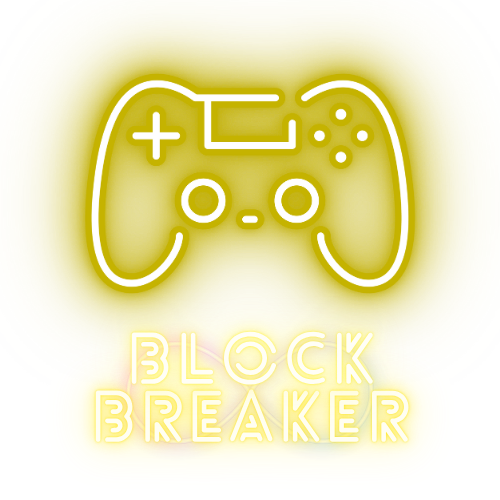
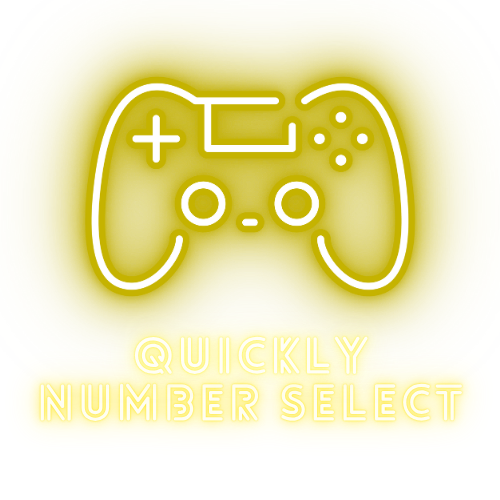
メインメニュー更新

Changed region(s): [[0.06, 0.63, 0.93, 0.93], [0.18, 0.12, 0.84, 0.6]]

diff --git a/games/quicklyNumberSelect/menu.html b/games/quicklyNumberSelect/menu.html
@@ -3,7 +3,7 @@
 
 <head>
     <meta charset="UTF-8">
-    <title>Memory Panel Menu</title>
+    <title>Quickly Number Select Menu</title>
     <meta name="viewport" content="width=device-width, initial-scale=1.0, maximum-scale=1.0, user-scalable=no">
     <link rel="icon" href="../images/favicon.ico" type="image/x-icon">
     <style>
@@ -189,7 +189,7 @@
     <!-- 上部：ゲームサムネ＋コメント -->
     <div class="game-thumb">
         <div class="thumb-left">
-            <img src="../images/game_title/BrockBreaker.png" alt="Brock Breaker">
+            <img src="../images/game_title/QuicklyNumberSelect.png" alt="Quickly Number Select">
         </div>
     </div>
 
@@ -202,8 +202,8 @@
             </div>
             <div class="result-info">
                 <div class="result-title">NORMAL ★</div>
-                <div class="result-title result-image-title">無限ブロック崩しゲーム</div>
-                <div class="result-desc">バーをクリックしながら左右移動！<br>永遠に続けられる暇つぶしゲーム！</div>
+                <div class="result-title result-image-title">反射神経ゲーム！</div>
+                <div class="result-desc">シャッフルされたカードに書かれた数字を順番にタップ！</div>
             </div>
         </div>
     </div>

diff --git a/games/game_center.html b/games/game_center.html
@@ -200,9 +200,12 @@
         <a href="./blockBreaker/menu.html" class="active">
             <img src="./images/menu-icon.png" alt="icon">Block Breaker
         </a>
-    <a href="./flashNumber/menu.html" class="active">
-        <img src="./images/menu-icon.png" alt="icon">Flash Number
-    </a>
+        <a href="./flashNumber/menu.html" class="active">
+            <img src="./images/menu-icon.png" alt="icon">Flash Number
+        </a>
+        <a href="./quicklyNumberSelect/menu.html" class="active">
+            <img src="./images/menu-icon.png" alt="icon">Quickly Number Select
+        </a>
     </div>
 
 
@@ -230,13 +233,14 @@
             <img src="./images/game_title/FlashNumber.png" alt="Flash Number">
         </div>
 
-        <div class="result-item coming-soon">
-            <img src="./images/game_title/ComingSoon.png" alt="Coming Soon">
+        <div class="result-item" onclick="location.href='./quicklyNumberSelect/menu.html'">
+            <img src="./images/game_title/QuicklyNumberSelect.png" alt="Quickly Number Select">
         </div>
 
         <div class="result-item coming-soon">
             <img src="./images/game_title/ComingSoon.png" alt="Coming Soon">
         </div>
+
     </div>
 
     <!-- フッター -->

diff --git a/games/quicklyNumberSelect/css/quicklyNumberSelect.css b/games/quicklyNumberSelect/css/quicklyNumberSelect.css
@@ -9,7 +9,6 @@ body {
     flex-direction: column;
     align-items: center;
     overflow-x: hidden;
-    overflow-y: hidden;
 }
 
 .fade-in {
@@ -264,4 +263,25 @@ button:hover {
     border-radius: 10px;
     box-shadow: 0 0 12px #00ffe7;
     cursor: pointer;
+}
+
+.logo-footer {
+    text-align: center;
+    margin-top: 30px;
+}
+
+.logo-footer a {
+    display: inline-block;
+}
+
+.logo-footer img {
+    max-width: 75px;
+    width: 100%;
+    height: auto;
+    opacity: 0.6;
+    transition: opacity 0.3s;
+}
+
+.logo-footer img:hover {
+    opacity: 1;
 }

diff --git a/games/flashNumber/menu.html b/games/flashNumber/menu.html
@@ -3,7 +3,7 @@
 
 <head>
     <meta charset="UTF-8">
-    <title>Memory Panel Menu</title>
+    <title>Flash Number Menu</title>
     <meta name="viewport" content="width=device-width, initial-scale=1.0, maximum-scale=1.0, user-scalable=no">
     <link rel="icon" href="../images/favicon.ico" type="image/x-icon">
     <style>

diff --git a/games/quicklyNumberSelect/play.html b/games/quicklyNumberSelect/play.html
@@ -48,6 +48,12 @@
       </div>
     </div>
 
+    <div class="logo-footer">
+        <a href="../game_center.html">
+            <img src="../images/ConsalLink.png" alt="CL LOGO">
+        </a>
+    </div>
+
     <!-- スクリプト -->
     <script src="./js/quicklyNumberSelect.js"></script>
 </body>
